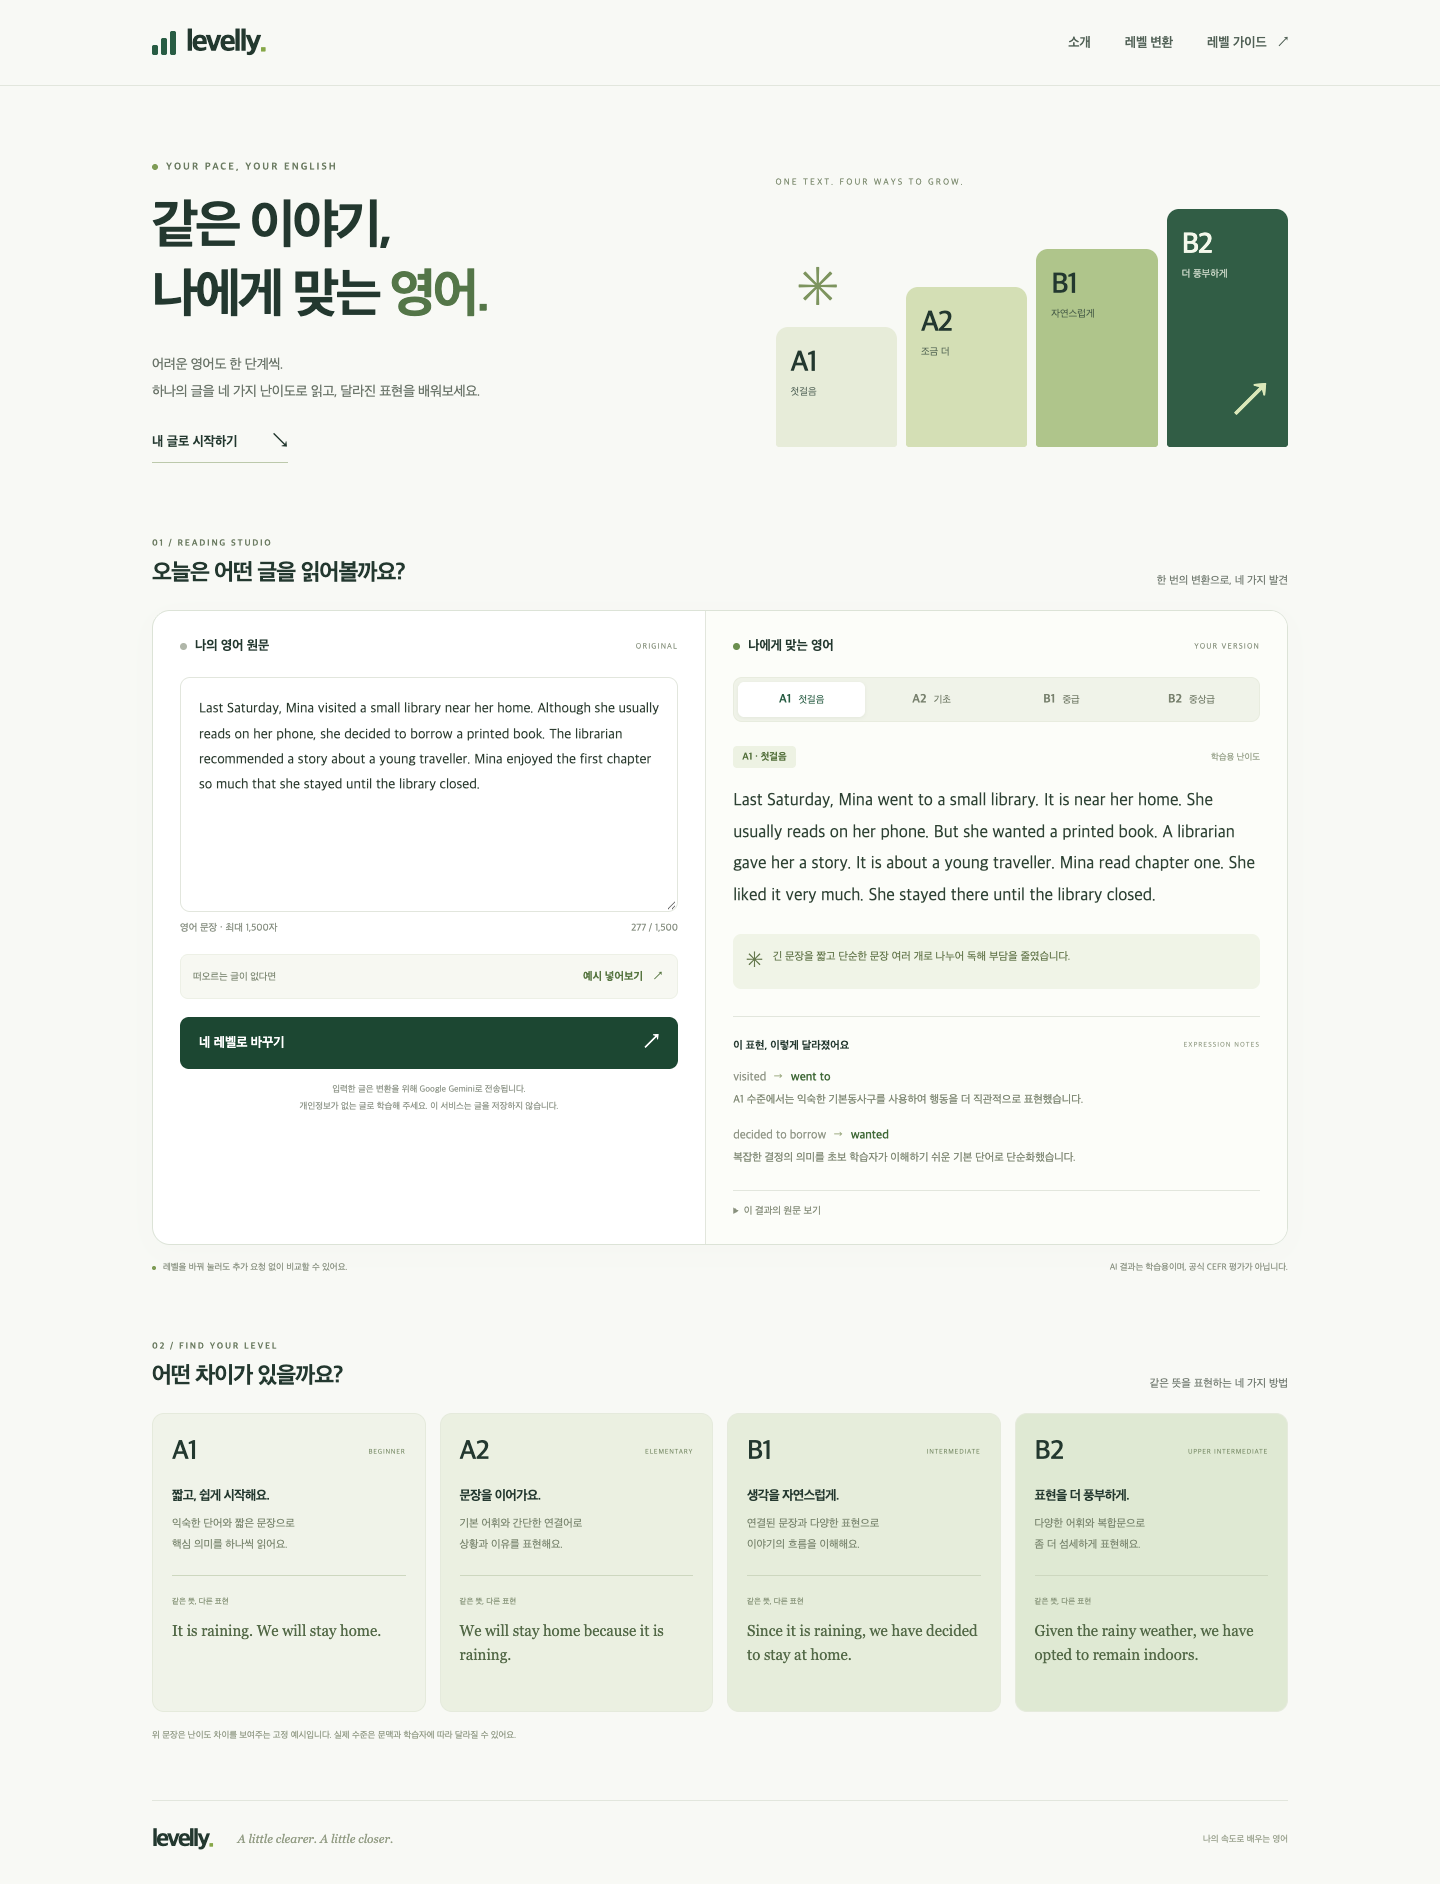
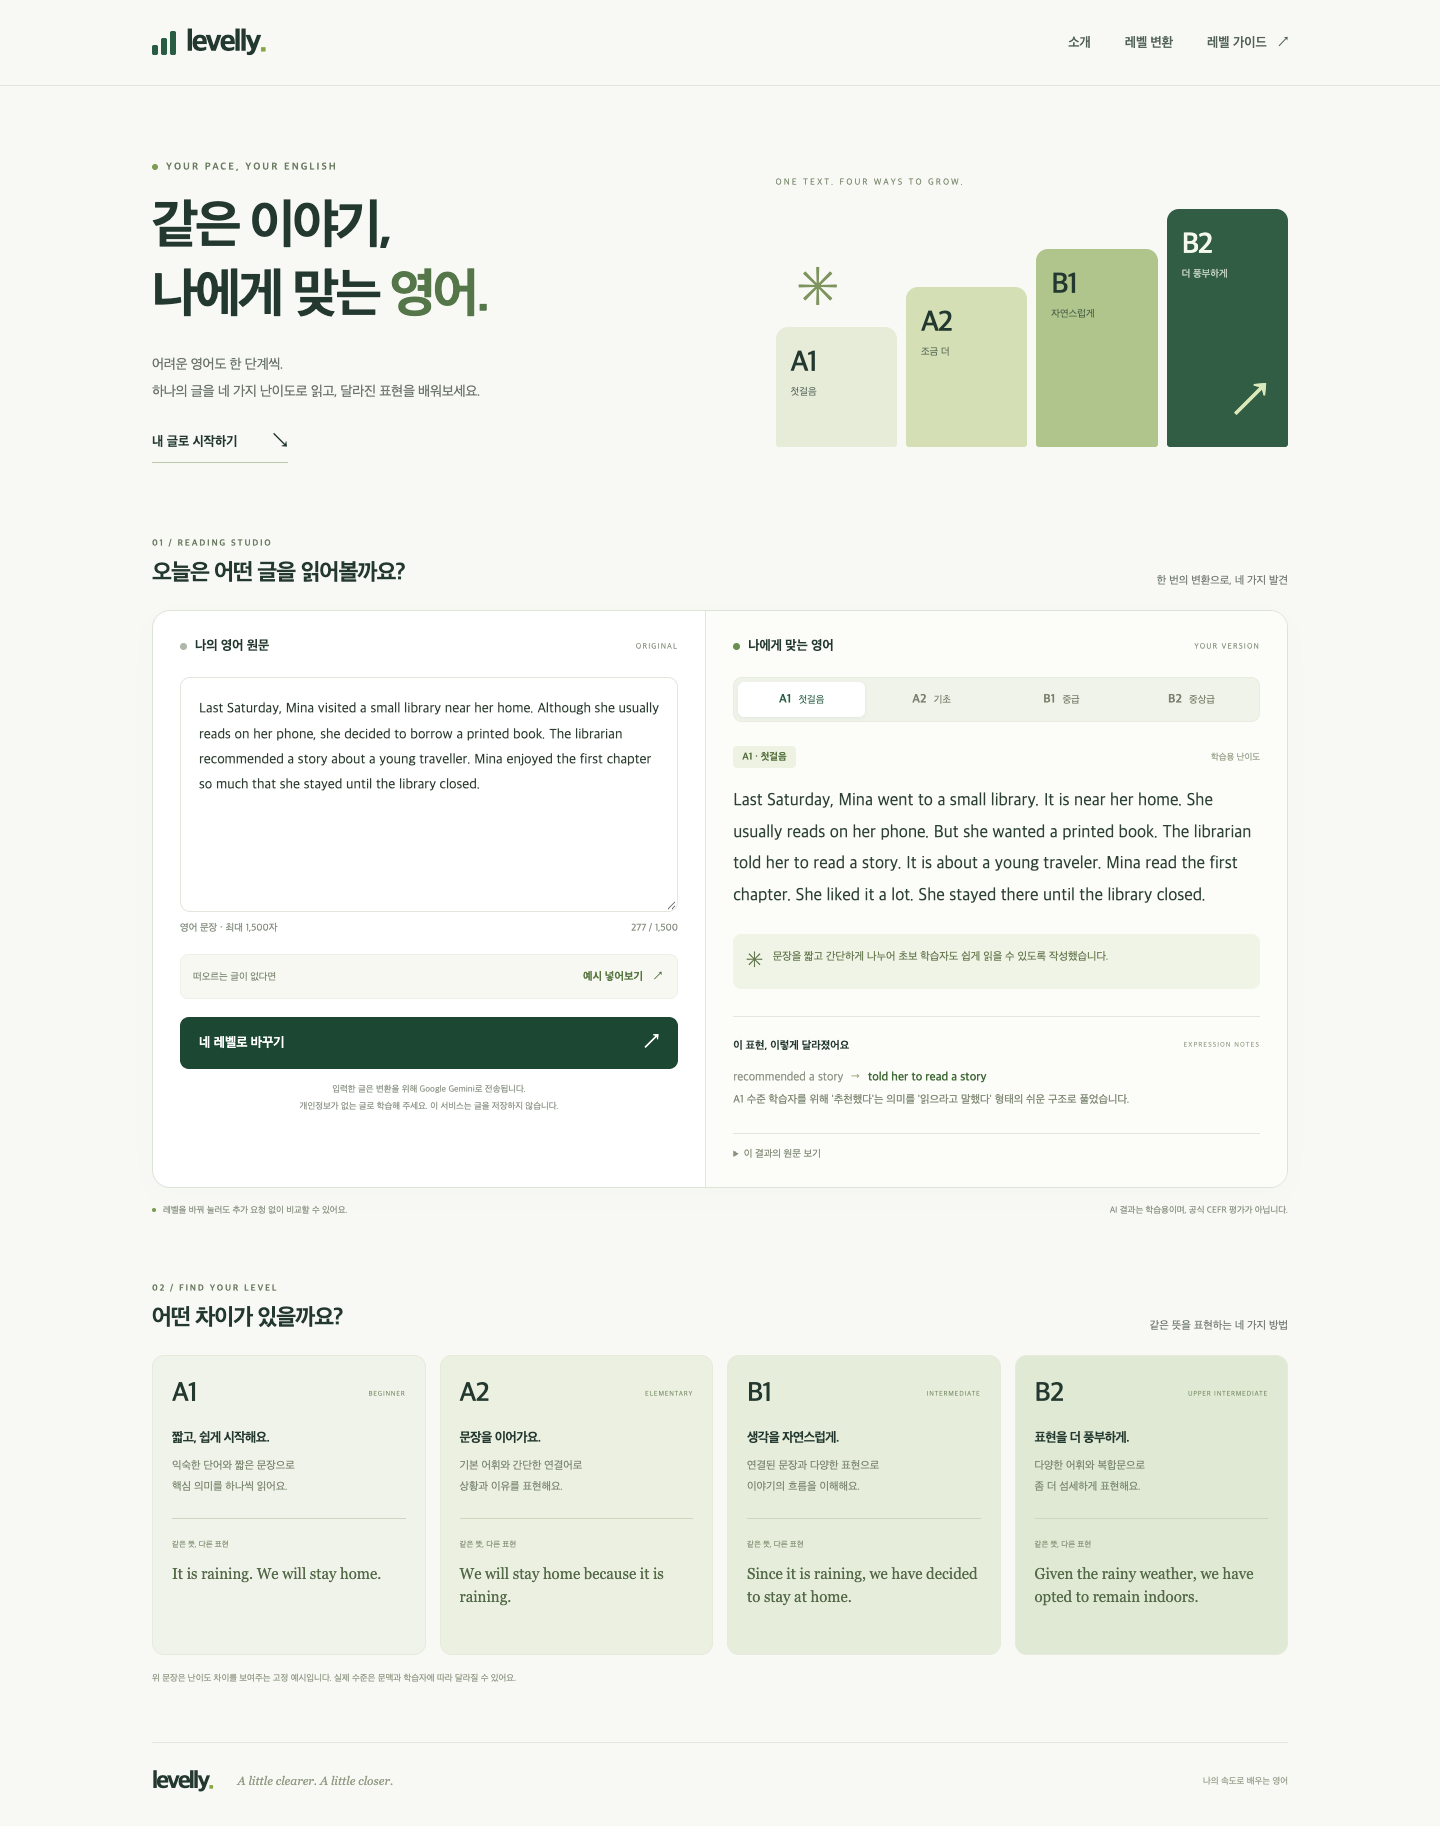
docs: finalize public deployment evidence and requirement checklist

diff --git a/A1-3/docs/superpowers/plans/2026-10-06-english-level-coach.md b/A1-3/docs/superpowers/plans/2026-10-06-english-level-coach.md
@@ -1,6 +1,6 @@
 # 영어 레벨 변환 코치 작업 계획
 
-> **For agentic workers:** REQUIRED SUB-SKILL: Use superpowers:executing-plans to implement this plan task-by-task after user approval. Steps use checkbox (`- [ ]`) syntax for tracking.
+> **For agentic workers:** REQUIRED SUB-SKILL: Use superpowers:executing-plans to implement this plan task-by-task after user approval. Steps use checkbox (`- [x]`) syntax for tracking.
 
 **Goal:** 영어 글을 A1·A2·B1·B2 네 수준으로 한 번에 다시 쓰고, 바뀐 표현을 한국어로 설명하는 학습용 웹 서비스를 완성한다.
 
@@ -118,12 +118,12 @@ docs/evidence/                # 제출 증빙
 
 **Interfaces:** 폼 입력 `text`, 네 레벨 결과 탭, 제출 버튼과 로딩·오류·결과 표시 영역을 제공한다. 서비스 화면은 API 구현 전에도 둘러볼 수 있다.
 
-- [ ] 승인된 범위를 제출용 기획서에 기록한다.
-- [ ] 기본 파일과 환경 변수 예시를 만들고 Git 저장소 상태를 확인해 초기화 또는 기존 저장소를 사용한다.
-- [ ] 소개·변환·레벨 가이드 섹션과 메뉴를 구현한다.
-- [ ] 원문·변환문 비교, 레벨별 최대 2개 표현 설명, 로딩·오류 상태의 화면을 구성한다.
-- [ ] 390px·768px·1440px에서 가로 넘침, 메뉴 이동, 입력 라벨, 키보드 조작을 확인한다.
-- [ ] 동작하는 화면 단위로 커밋한다.
+- [x] 승인된 범위를 제출용 기획서에 기록한다.
+- [x] 기본 파일과 환경 변수 예시를 만들고 Git 저장소 상태를 확인해 초기화 또는 기존 저장소를 사용한다.
+- [x] 소개·변환·레벨 가이드 섹션과 메뉴를 구현한다.
+- [x] 원문·변환문 비교, 레벨별 최대 2개 표현 설명, 로딩·오류 상태의 화면을 구성한다.
+- [x] 390px·768px·1440px에서 가로 넘침, 메뉴 이동, 입력 라벨, 키보드 조작을 확인한다.
+- [x] 동작하는 화면 단위로 커밋한다.
 
 **완료 기준:** 세 섹션 이동과 반응형 레이아웃이 동작하고, AI 연결 위치가 명확하다.
 
@@ -133,14 +133,14 @@ docs/evidence/                # 제출 증빙
 
 **Interfaces:** 위 API 계약을 구현한다. `validate_input(payload: dict) -> str`, `rewrite_text(text: str) -> dict`를 서비스 모듈이 제공하며 HTTP 진입점이 호출한다.
 
-- [ ] 구현 시 공식 문서에서 Python Vercel 함수, SDK의 구조화 출력, 사용할 모델의 지원 여부와 실행 제한을 확인한다.
-- [ ] 입력 검증 테스트를 먼저 작성한다: 공백 입력·1,501자·잘못된 타입은 거부, 1자·1,500자는 허용한다.
-- [ ] `python -m unittest discover -s tests -v`로 해당 테스트의 실패를 확인한다.
-- [ ] 검증 로직과 HTTP 요청 처리를 구현한다.
-- [ ] 정상 응답, 필수 필드 누락, 결과 레벨 누락·중복, 레벨별 표현 변경 2개 초과, AI 제한·오류·타임아웃, API 키 누락, 잘못된 JSON·메서드의 테스트를 추가한다. 외부 API는 mock 처리한다.
-- [ ] 원문을 시스템 지시와 분리하고 수준별 변환 지시 및 JSON 출력 검증을 구현한다.
-- [ ] 위 테스트 명령을 다시 실행해 모두 통과하는지 확인한다.
-- [ ] AI 연동 단위로 커밋한다.
+- [x] 구현 시 공식 문서에서 Python Vercel 함수, SDK의 구조화 출력, 사용할 모델의 지원 여부와 실행 제한을 확인한다.
+- [x] 입력 검증 테스트를 먼저 작성한다: 공백 입력·1,501자·잘못된 타입은 거부, 1자·1,500자는 허용한다.
+- [x] `python -m unittest discover -s tests -v`로 해당 테스트의 실패를 확인한다.
+- [x] 검증 로직과 HTTP 요청 처리를 구현한다.
+- [x] 정상 응답, 필수 필드 누락, 결과 레벨 누락·중복, 레벨별 표현 변경 2개 초과, AI 제한·오류·타임아웃, API 키 누락, 잘못된 JSON·메서드의 테스트를 추가한다. 외부 API는 mock 처리한다.
+- [x] 원문을 시스템 지시와 분리하고 수준별 변환 지시 및 JSON 출력 검증을 구현한다.
+- [x] 위 테스트 명령을 다시 실행해 모두 통과하는지 확인한다.
+- [x] AI 연동 단위로 커밋한다.
 
 **완료 기준:** 정상 요청은 계약에 맞는 응답을 반환하며 실패 요청은 안전한 안내로 변환된다. 실제 AI의 언어 품질은 작업 4에서 별도로 확인한다.
 
@@ -150,13 +150,13 @@ docs/evidence/                # 제출 증빙
 
 **Interfaces:** `POST /api/rewrite` 계약을 사용하며, 요청 당시 원문과 네 레벨 응답을 함께 표시한다.
 
-- [ ] 클라이언트 입력 검증과 글자 수 표시를 구현한다.
-- [ ] fetch 요청, 로딩, 중복 제출 방지, 타임아웃과 재시도 안내를 구현한다.
-- [ ] 성공 응답을 원문 비교 영역과 표현 설명 영역에 텍스트로 표시한다.
-- [ ] 브라우저에서 정상 응답, 빈 값, 과도한 길이, 429·502·504, 비JSON 응답을 확인한다. 실패 후 입력 유지와 버튼 복구를 확인한다.
-- [ ] 요청 중 원문 수정 후 결과가 원래 요청과 연결되는지 확인한다. 결과 탭 전환 시 추가 네트워크 요청이 없는지 확인한다.
-- [ ] HTML처럼 생긴 원문과 AI 결과가 실행되지 않고 글자로 표시되는지 확인한다.
-- [ ] 사용자 흐름 단위로 커밋한다.
+- [x] 클라이언트 입력 검증과 글자 수 표시를 구현한다.
+- [x] fetch 요청, 로딩, 중복 제출 방지, 타임아웃과 재시도 안내를 구현한다.
+- [x] 성공 응답을 원문 비교 영역과 표현 설명 영역에 텍스트로 표시한다.
+- [x] 브라우저에서 정상 응답, 빈 값, 과도한 길이, 429·502·504, 비JSON 응답을 확인한다. 실패 후 입력 유지와 버튼 복구를 확인한다.
+- [x] 요청 중 원문 수정 후 결과가 원래 요청과 연결되는지 확인한다. 결과 탭 전환 시 추가 네트워크 요청이 없는지 확인한다.
+- [x] HTML처럼 생긴 원문과 AI 결과가 실행되지 않고 글자로 표시되는지 확인한다.
+- [x] 사용자 흐름 단위로 커밋한다.
 
 **완료 기준:** 입력 → 로딩 → 결과 비교가 연결되고, 실패 후 다시 시도할 수 있다.
 
@@ -166,13 +166,13 @@ docs/evidence/                # 제출 증빙
 
 **Interfaces:** 실제 API 키와 사용할 GitHub·Vercel 계정이 필요하다. 비밀 키는 채팅이나 파일에 붙여 넣도록 요구하지 않고 환경 변수 설정 경로를 사용한다.
 
-- [ ] 한 번의 요청으로 같은 원문을 A1·A2·B1·B2로 변환해 어휘·문장 구조 차이와 의미 보존을 검토한다.
-- [ ] 숫자·날짜·고유명사·부정문이 포함된 글, 짧은 문장, 이미 쉬운 글, 원문 속 지시문, 영문 없는 입력을 실제 호출로 확인한다.
-- [ ] 결과에서 실제 사용된 표현과 변경 설명이 일치하는지 확인하고 필요한 프롬프트 수정을 수행한다.
-- [ ] 검증 결과를 기록한다. 소수 예시의 통과를 CEFR 정확도 보장으로 표현하지 않는다.
-- [ ] 사용 가능한 저장소와 계정을 확인해 GitHub에 업로드하고 Vercel과 연동한다. 대상이 불분명하거나 계정 연결이 없으면 해당 정보만 요청한다.
-- [ ] 환경 변수를 설정하고 배포 URL에서 메뉴·AI 호출·오류 안내·반응형을 확인한다.
-- [ ] 필요한 수정과 재배포를 마친다.
+- [x] 한 번의 요청으로 같은 원문을 A1·A2·B1·B2로 변환해 어휘·문장 구조 차이와 의미 보존을 검토한다.
+- [x] 숫자·날짜·고유명사·부정문이 포함된 글, 짧은 문장, 이미 쉬운 글, 원문 속 지시문, 영문 없는 입력을 실제 호출로 확인한다.
+- [x] 결과에서 실제 사용된 표현과 변경 설명이 일치하는지 확인하고 필요한 프롬프트 수정을 수행한다.
+- [x] 검증 결과를 기록한다. 소수 예시의 통과를 CEFR 정확도 보장으로 표현하지 않는다.
+- [x] 사용 가능한 저장소와 계정을 확인해 GitHub에 업로드하고 Vercel과 연동한다. 대상이 불분명하거나 계정 연결이 없으면 해당 정보만 요청한다.
+- [x] 환경 변수를 설정하고 배포 URL에서 메뉴·AI 호출·오류 안내·반응형을 확인한다.
+- [x] 필요한 수정과 재배포를 마친다.
 
 **완료 기준:** 외부에서 접속 가능한 URL에서 실제 AI 변환이 재현된다.
 
@@ -180,18 +180,18 @@ docs/evidence/                # 제출 증빙
 
 **Files:** `README.md`, `docs/service-plan.md`, `docs/verification.md`, `docs/evidence/`
 
-- [ ] README에 소개, 기술 스택, 실제 실행·배포 방법, 환경 변수, 배포 URL을 작성한다.
-- [ ] 기획서에 목적, 타겟, 페이지 구성, 핵심 기능, 입력·출력·실패 기준을 최종 반영한다.
-- [ ] 데스크톱·모바일·실제 AI 동작 스크린샷을 준비한다.
-- [ ] AI 코딩 도구 사용 과정의 대화 기록 또는 스크린샷을 증빙에 포함한다.
-- [ ] 코드·문서·증빙·커밋 이력에 API 키가 포함되지 않았는지 확인한다.
-- [ ] 배포 URL, GitHub 저장소, README, 기획서, 증빙의 필수 5종을 확인하고 최종 커밋한다.
+- [x] README에 소개, 기술 스택, 실제 실행·배포 방법, 환경 변수, 배포 URL을 작성한다.
+- [x] 기획서에 목적, 타겟, 페이지 구성, 핵심 기능, 입력·출력·실패 기준을 최종 반영한다.
+- [x] 데스크톱·모바일·실제 AI 동작 스크린샷을 준비한다.
+- [x] AI 코딩 도구 사용 과정의 대화 기록 또는 스크린샷을 증빙에 포함한다.
+- [x] 코드·문서·증빙·커밋 이력에 API 키가 포함되지 않았는지 확인한다.
+- [x] 배포 URL, GitHub 저장소, README, 기획서, 증빙의 필수 5종을 확인하고 최종 커밋한다.
 
 **완료 기준:** 과제 필수 요구사항마다 구현 또는 증빙을 찾을 수 있다.
 
 ## 검토 및 실행 방식
 
-현재 상태는 **사용자 승인 후 구현 진행 중**이다. 네 레벨 동시 생성, Gemini 무료 API 사용, Jev 제외는 사용자와 확정했다. 먼저 서비스 범위와 입력 제한·결과 탭·한국어 설명 구성이 의도에 맞는지 사용자 검토를 받는다.
+현재 상태는 **구현·테스트·공개 배포 완료, Git 연동 최종 확인 중**이다. 네 레벨 동시 생성, Gemini 무료 API 사용, Jev 제외는 사용자와 확정했다. 먼저 서비스 범위와 입력 제한·결과 탭·한국어 설명 구성이 의도에 맞는지 사용자 검토를 받는다.
 
 실행 방식은 이 작업에서 직접 순서대로 구현하는 방식을 추천한다. 화면과 API가 작고 서로 밀접하게 연결되어 있기 때문이다. 사용자가 원하면 작업별 구현·검토를 나누는 서브에이전트 방식도 선택할 수 있다.
 

diff --git a/A1-3/docs/verification.md b/A1-3/docs/verification.md
@@ -37,7 +37,11 @@
 
 Vercel Production 배포 빌드 성공. URL: https://levelly-english-coach.vercel.app
 
-현재 로그인 보호가 적용되어 공개 접근 승인을 기다리는 중이다. GitHub 저장소 연결은 Vercel GitHub 앱 설치가 필요하여 사용자 조치 대기 중이다. GitHub 작업 브랜치는 푸시 완료했다. 비로그인 접근 검증과 GitHub 자동 배포 연동은 아직 완료로 표시하지 않는다.
+사용자가 이 프로젝트의 공개 접근을 명시적으로 승인한 후 Vercel Authentication 보호를 해제했다. 로그인 없는 새 Chrome에서 200자 이상 샘플의 실제 AI 변환과 A1/B2 표시를 확인했다. 배포 URL에서도 브라우저 자동 검사 전체가 통과했다.
+
+실제 HTTP 검증: `/` 200, `/css/style.css` 200, 빈 입력 `/api/rewrite` 400 JSON, `/.env.local` 및 `/services/coach.py` 404. 인증 우회 토큰 없이 검사했다.
+
+GitHub `jimchoi9/codyssey-native`와 Vercel 연동 완료. Root Directory는 `A1-3`으로 설정한다. 작업은 `codex/english-level-coach` 브랜치에 기록하며 기존 main과 다른 과제 파일은 수정하지 않는다. Git 연동 후 마지막 배포 상태는 아래 기록을 따른다.
 
 ## 과제 요구사항 대응
 
@@ -49,5 +53,5 @@ Vercel Production 배포 빌드 성공. URL: https://levelly-english-coach.verce
 | 반응형 | 390·768·1440px 검사, 데스크톱·모바일 캡처 |
 | AI UX | 폼·결과·로딩·오류·원문 유지 |
 | Python AI API | api/rewrite.py → services/coach.py → Gemini |
-| Vercel 배포 | 배포 상태 참조 |
-| 제출 5종 | README·기획서·GitHub·배포 URL·증빙. 배포 완료 시 최종 확인 |
+| Vercel 배포 | 공개 URL 실제 동작 확인, GitHub 연동 |
+| 제출 5종 | README·기획서·GitHub·배포 URL·증빙 준비 |

diff --git a/A1-3/README.md b/A1-3/README.md
@@ -10,9 +10,10 @@
 
 ## 배포 및 저장소
 
-- 배포 URL: https://levelly-english-coach.vercel.app (현재 Vercel 로그인 보호 적용)
+- 배포 URL: https://levelly-english-coach.vercel.app
 - GitHub: https://github.com/jimchoi9/codyssey-native/tree/codex/english-level-coach/A1-3
 - 모노레포 프로젝트 경로: `A1-3`
+- 작업 브랜치: `codex/english-level-coach` (main에 병합하지 않음). Git 연결 후 작업 브랜치 푸시는 Preview 배포를 생성하며 검증된 배포를 Production으로 승격할 수 있습니다.
 
 ## 기술 스택과 구조
 
